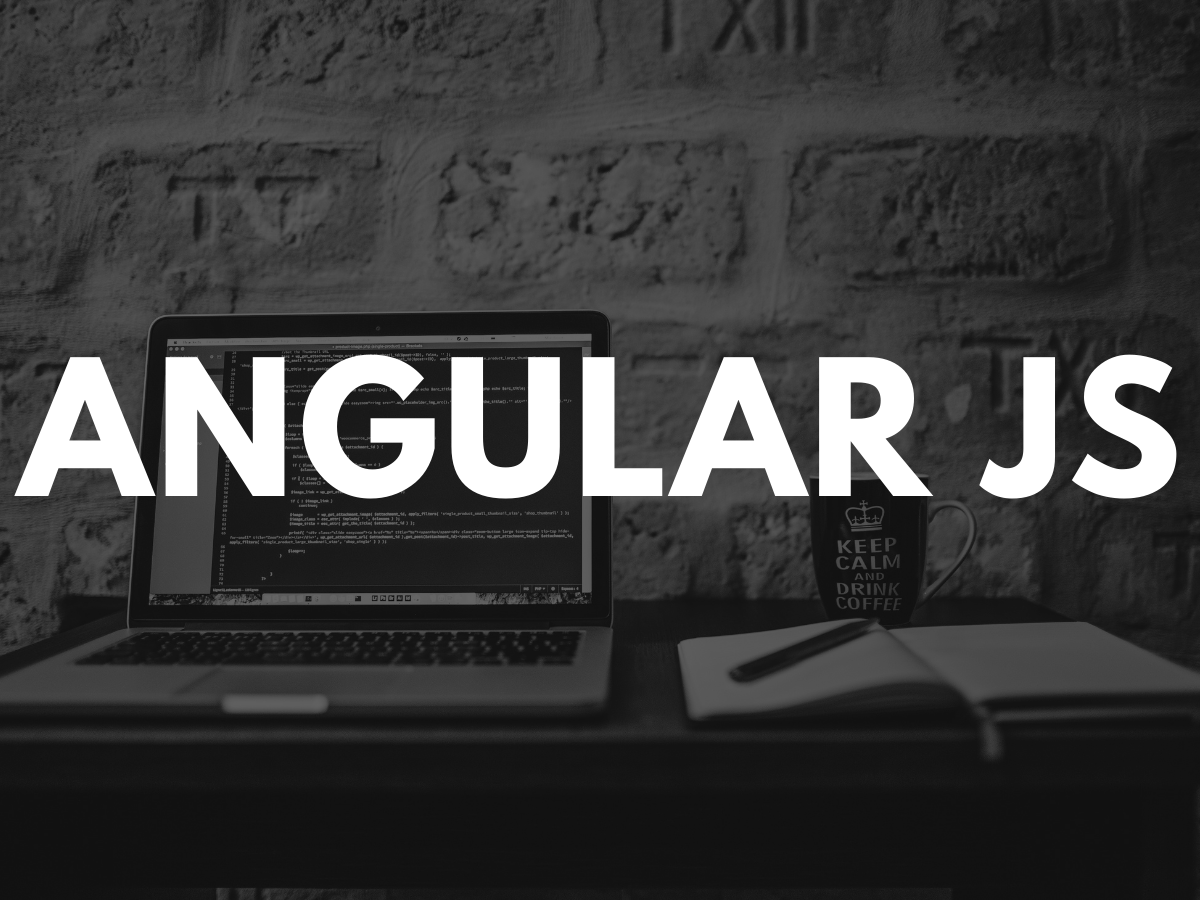
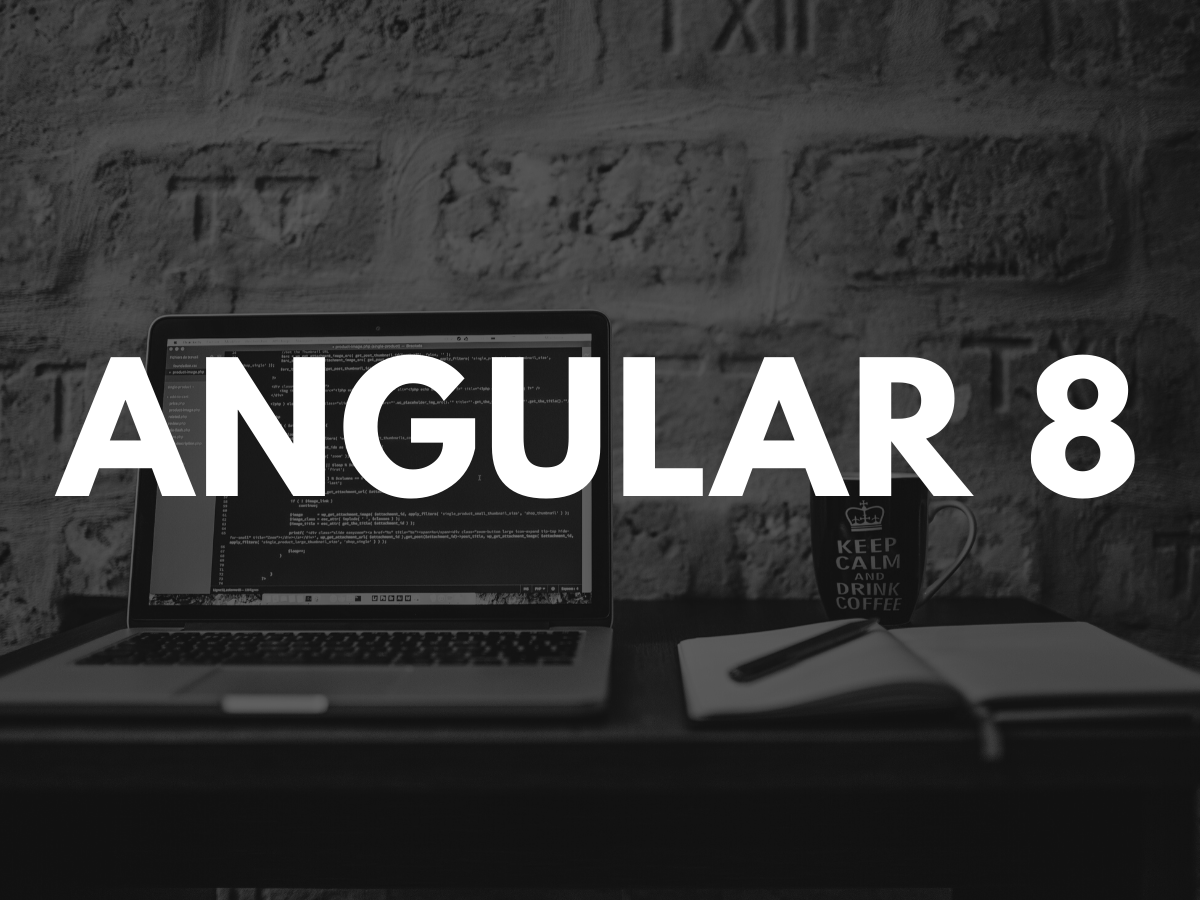
fixed Angular photos

Changed region(s): [[0.0, 0.3733, 0.9867, 0.56]]

diff --git a/projects.html b/projects.html
@@ -110,7 +110,7 @@
 											<a href="#angularJSPhoto" class="image fit"><img src="images/angular.png" alt="" /></a>
 										</div>
 										<div class="col-7">
-											<h4> <a href="#angularJSPhoto">Angular JS</h4></a>
+											<h4> <a href="#angularJSPhoto">Angular 8</h4></a>
 											<!-- <p>
 												Task application.
 											</p> -->
@@ -221,7 +221,7 @@
 								<hr>
 								<article id="main">
 									<header id="expressApp">
-										<h2><a>Simple Social Media App</a></h2>
+										<h2><a>EXPRESS JS Social Media App</a></h2>
 										<p>
 											Express JS, Handlebars JS, and MySQL database
 										</p>
@@ -243,18 +243,18 @@
 								<hr>
 								<article id="main">
 									<header id="angularJSPhoto">
-										<h2><a>Task Application</a></h2>
+										<h2><a>Angular 9 Task Application</a></h2>
 										<p>
-											Angular JS with JSON Mock Server
+											Angular 8 with JSON Mock Server
 										</p>
 									</header>
 									<a class="image featured"><img src="images/angularJSPhoto.png" alt="" /></a>
 									<section>
 										<header>
-											<h3>Task App using Angular JS</h3>
+											<h3>Task App using Angular 8 and TypeScript</h3>
 										</header>
 										<p>
-											This Angular JS Task App was built for a <a href="https://betheltech.net/" target="_blank">Bethel Tech</a> school project with Angular JS. The core of this app uses CRUD operators in order to create, read, update, and delete tasks. 
+											This Angular 8 Task App was built for a <a href="https://betheltech.net/" target="_blank">Bethel Tech</a> school project with Angular 8. The core of this app uses CRUD operators in order to create, read, update, and delete tasks. 
 											Angular page routing is super fast, giving a great user experience with no page load wait time. The app uses a HTTP request with a JSON mock 
 											in order to send and receive the data from page to page. Some simple CSS styling was included. 
 										</p>
@@ -294,7 +294,7 @@
 								</header>
 								<p>
 									Let's get in touch. Here you can find links to my GitHub, follow me on social media, or check out my resume.
-									If you have quesions, Let's connect.
+									If you have questions, Let's connect.
 								</p>
 							</article>
 						</div>

diff --git a/index.html b/index.html
@@ -114,7 +114,7 @@
 						<article>
 							<a href="projects.html" class="image featured"><img src="images/homeangularjs.jpg" alt="" /></a>
 							<header>
-								<h3><a href="projects.html">Angular JS Task App</a></h3>
+								<h3><a href="projects.html">Angular 8 Task App</a></h3>
 							</header>
 						</article>
 
